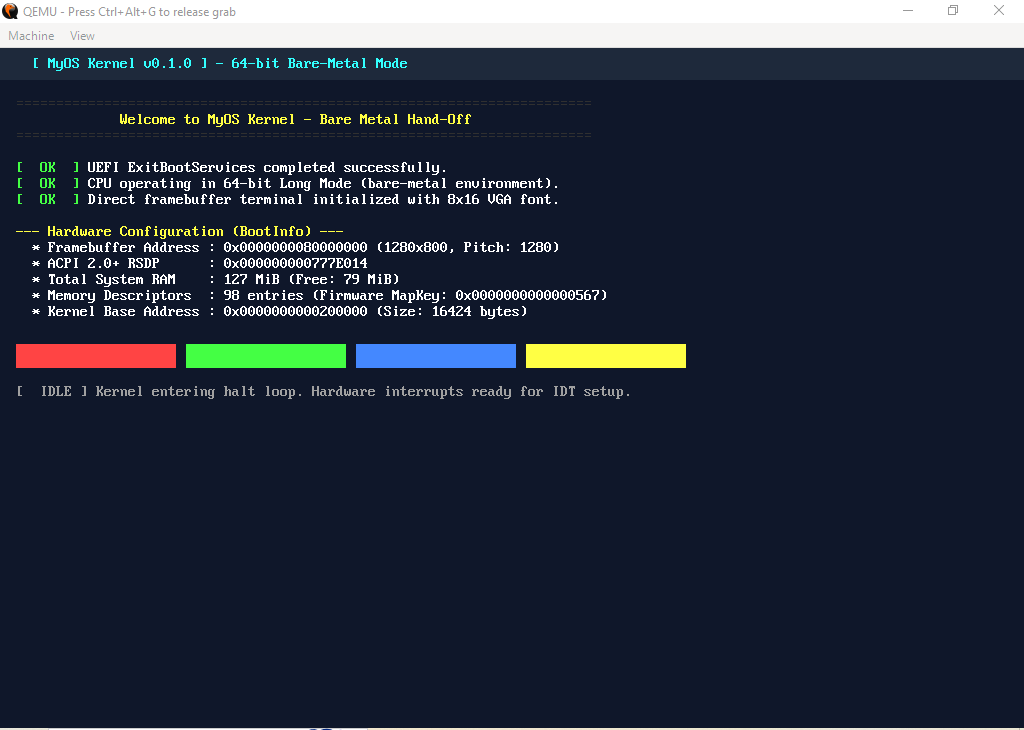
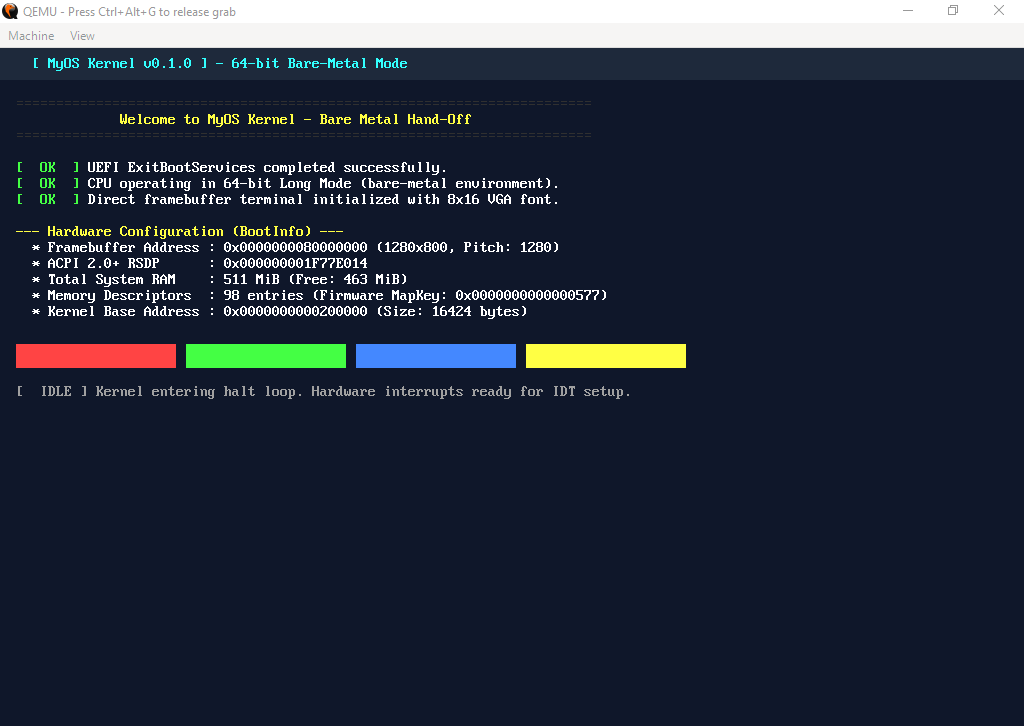
docs: expand build presets, binary inspection, and debugging instructions
Improve developer documentation:
- Document CMake presets and manual CLI build steps.
- Add binary inspection commands using llvm-readelf and llvm-objdump.
- Add remote GDB debugging instructions against QEMU stub.
- Update GUI screenshot asset.

diff --git a/README.md b/README.md
@@ -39,24 +39,71 @@ The project consists of two primary binaries:
 
 ## Building and Running
 
-Configure and compile using CMake presets:
+### 1. Build via CMake Presets (Recommended)
 
 ```powershell
+# Configure Ninja build directory with Clang toolchain
 cmake --preset ninja-debug
+
+# Compile kernel.elf, bootx64.efi, and stage the ESP directory
 cmake --build --preset ninja-debug
+
+# Clean rebuild
+cmake --build --preset ninja-debug --clean-first
 ```
 
-Or using standard CMake:
+### 2. Manual CMake Invocation
 
 ```powershell
-cmake -B build/debug -G Ninja
+cmake -B build/debug -G Ninja -D CMAKE_C_COMPILER=clang
 cmake --build build/debug
 ```
 
-Launch under QEMU:
+### 3. Emulation (QEMU)
+
+Launch directly through the CMake target (auto-detects OVMF firmware):
 
 ```powershell
 cmake --build build/debug --target run
+```
+
+Or invoke QEMU manually:
+
+```powershell
+qemu-system-x86_64 `
+  -drive if=pflash,format=raw,readonly=on,file="C:/Program Files/qemu/share/edk2-x86_64-code.fd" `
+  -drive file=fat:rw:build/debug/esp,format=raw `
+  -net none `
+  -serial stdio
+```
+
+### 4. Binary Inspection & Debugging
+
+Verify ELF segment layout, physical base (`0x200000`), and entry point:
+
+```powershell
+# Inspect ELF headers and PT_LOAD segment alignment
+llvm-readelf -h -l build/debug/kernel.elf
+
+# Disassemble kernel entry point
+llvm-objdump -d --no-show-raw-insn build/debug/kernel.elf
+
+# Inspect UEFI PE32+ bootloader headers
+llvm-objdump -p build/debug/esp/EFI/BOOT/BOOTX64.EFI
+```
+
+Attach GDB to QEMU via port `1234`:
+
+```powershell
+# Terminal 1: Launch QEMU paused at reset vector
+qemu-system-x86_64 `
+  -drive if=pflash,format=raw,readonly=on,file="C:/Program Files/qemu/share/edk2-x86_64-code.fd" `
+  -drive file=fat:rw:build/debug/esp,format=raw `
+  -net none `
+  -s -S
+
+# Terminal 2: Connect GDB and load kernel symbols
+gdb -ex "target remote localhost:1234" -ex "symbol-file build/debug/kernel.elf"
 ```
 
 The build system automatically deploys `BOOTX64.EFI` to `build/debug/esp/EFI/BOOT/` and `kernel.elf` to `build/debug/esp/` for direct FAT volume emulation.
